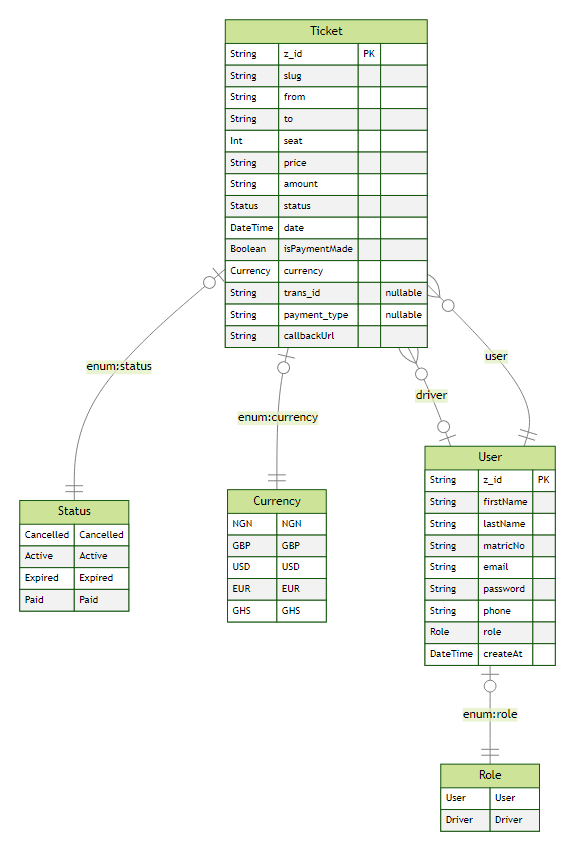
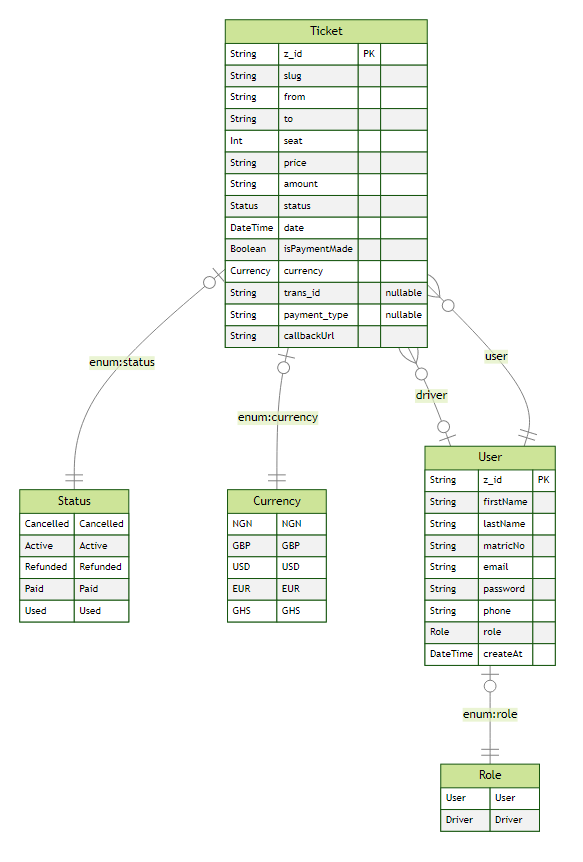
feat: remove Expired and add Refunded to Ticket status

Changed region(s): [[0.0309, 0.4826, 0.247, 0.7239], [0.1544, 0.3921, 0.2779, 0.4826]]

diff --git a/prisma/joi/schemas/enums/Status.schema.ts b/prisma/joi/schemas/enums/Status.schema.ts
@@ -1,3 +1,3 @@
 import Joi from 'joi';
 
-export const StatusSchema = Joi.string().valid(...["Cancelled","Active","Expired","Paid"])
+export const StatusSchema = Joi.string().valid(...["Cancelled","Active","Refunded","Paid","Used"])
